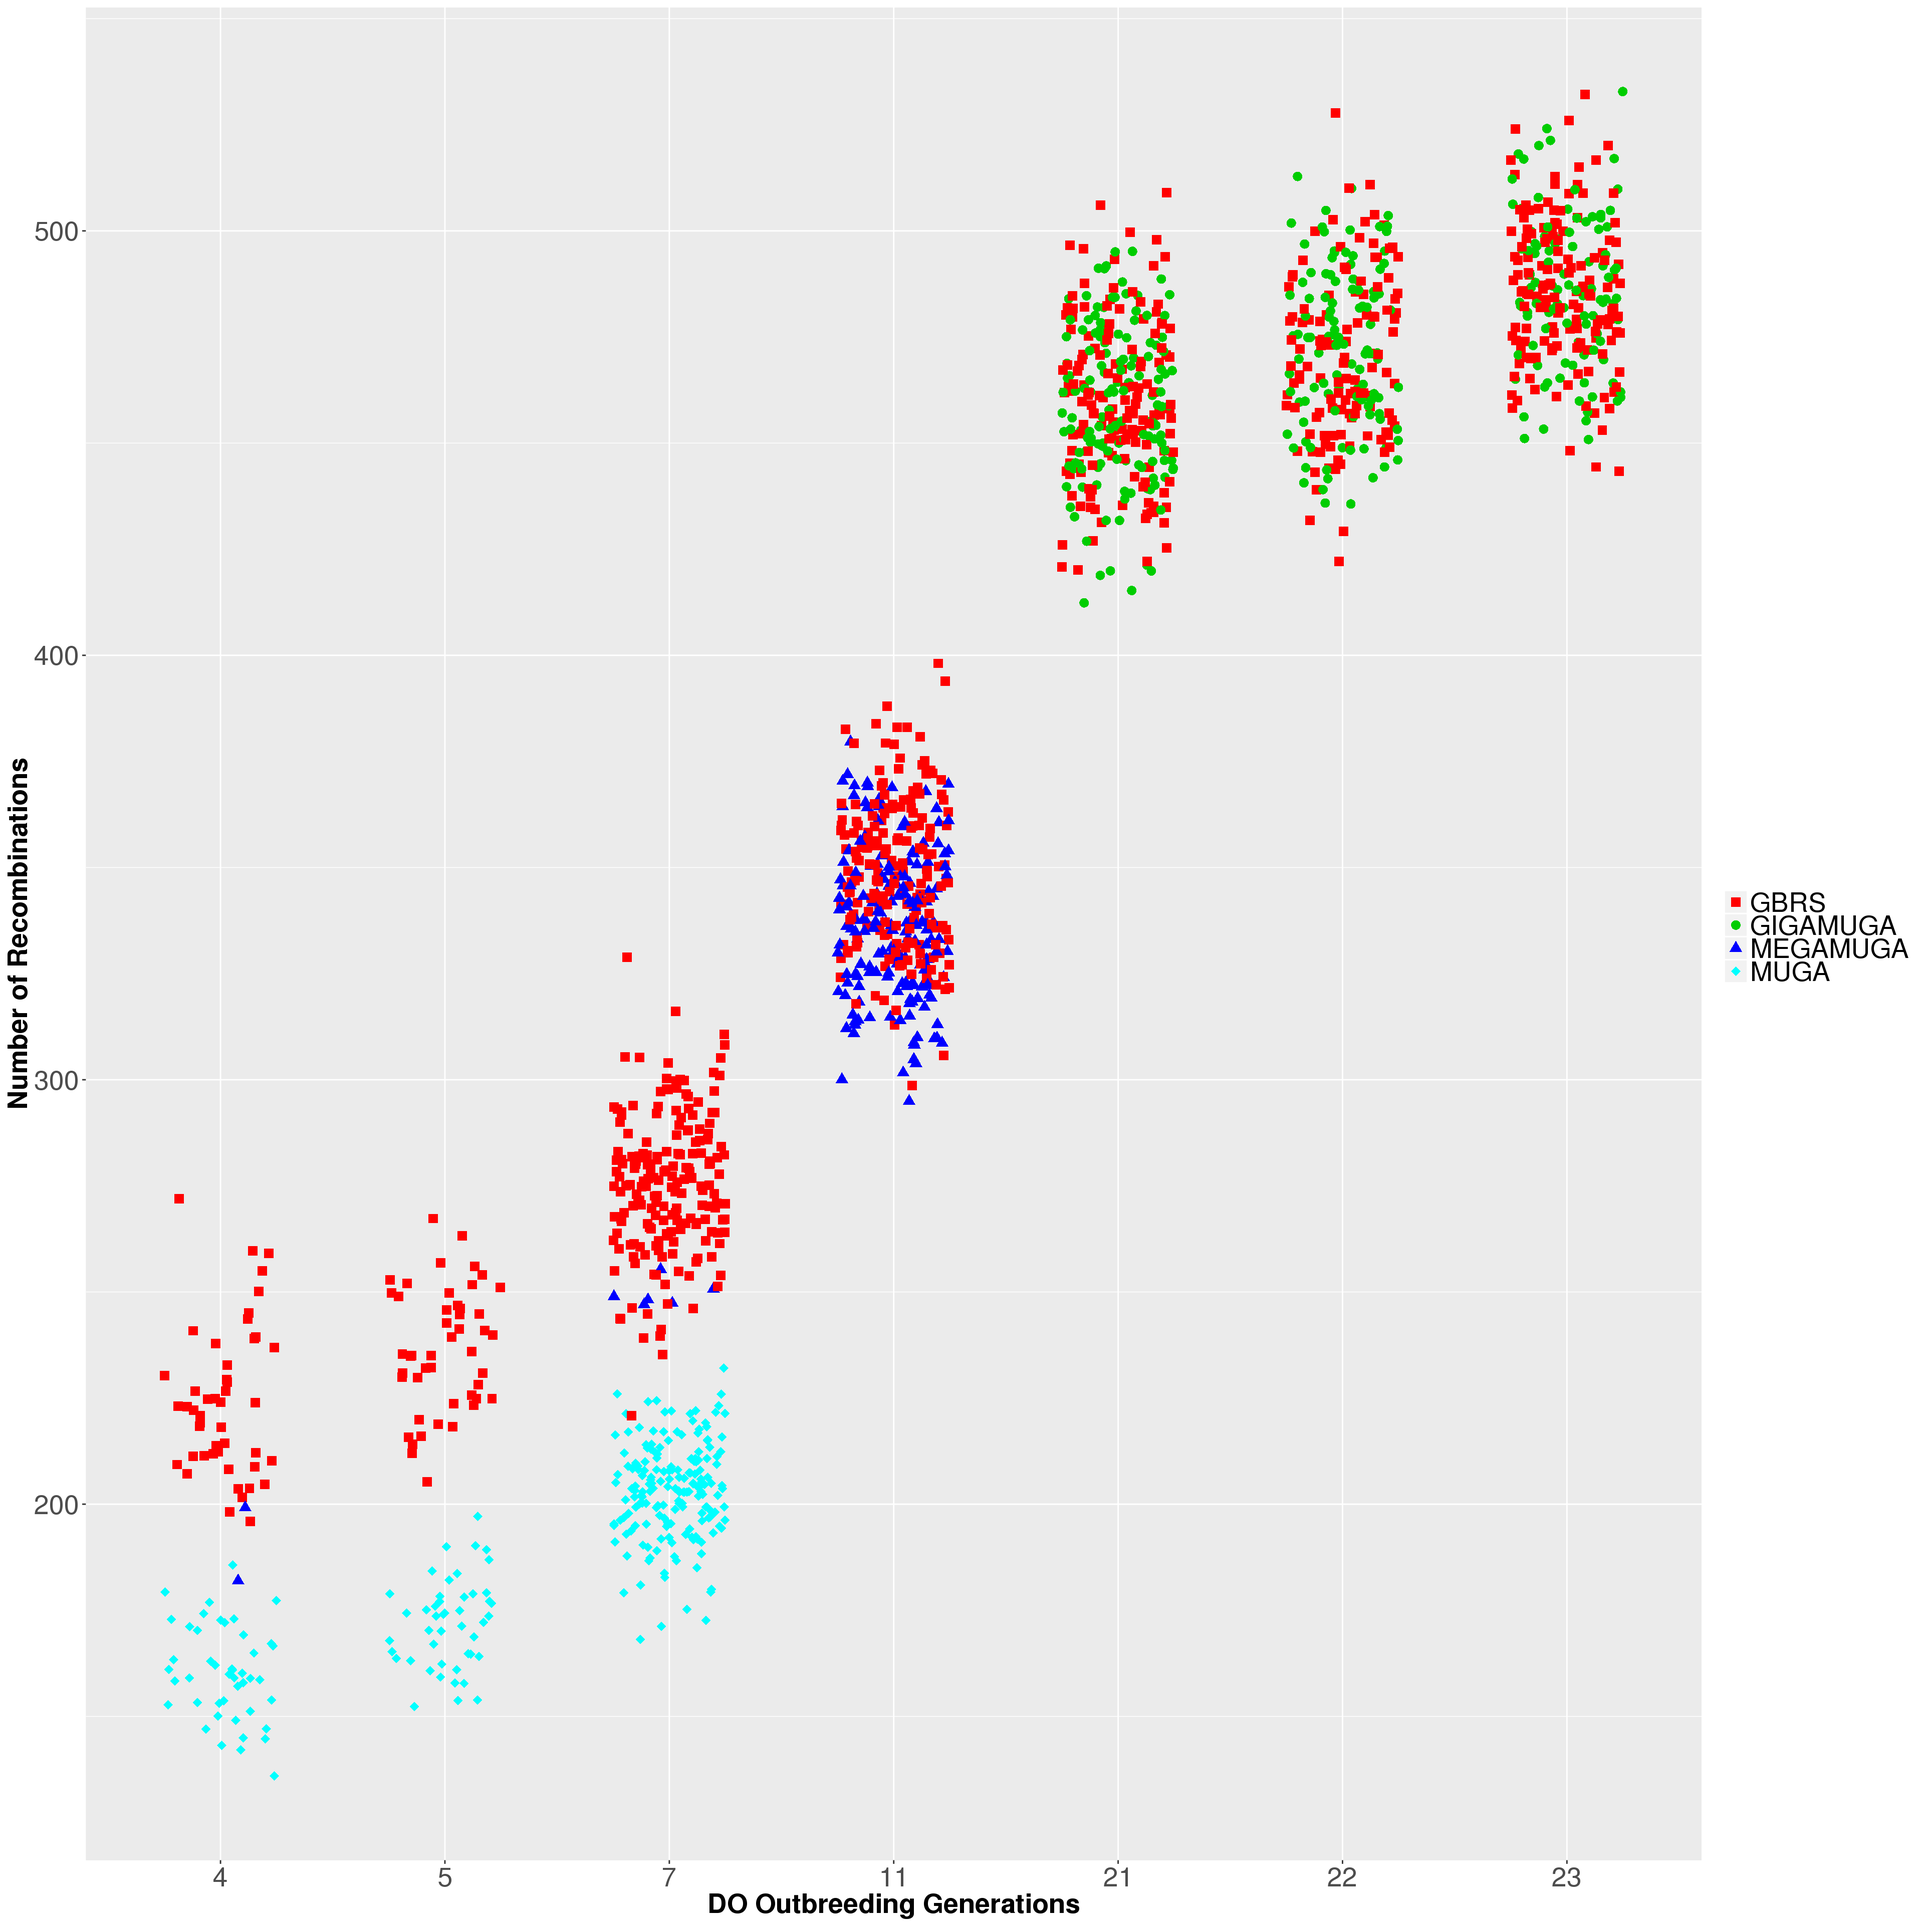
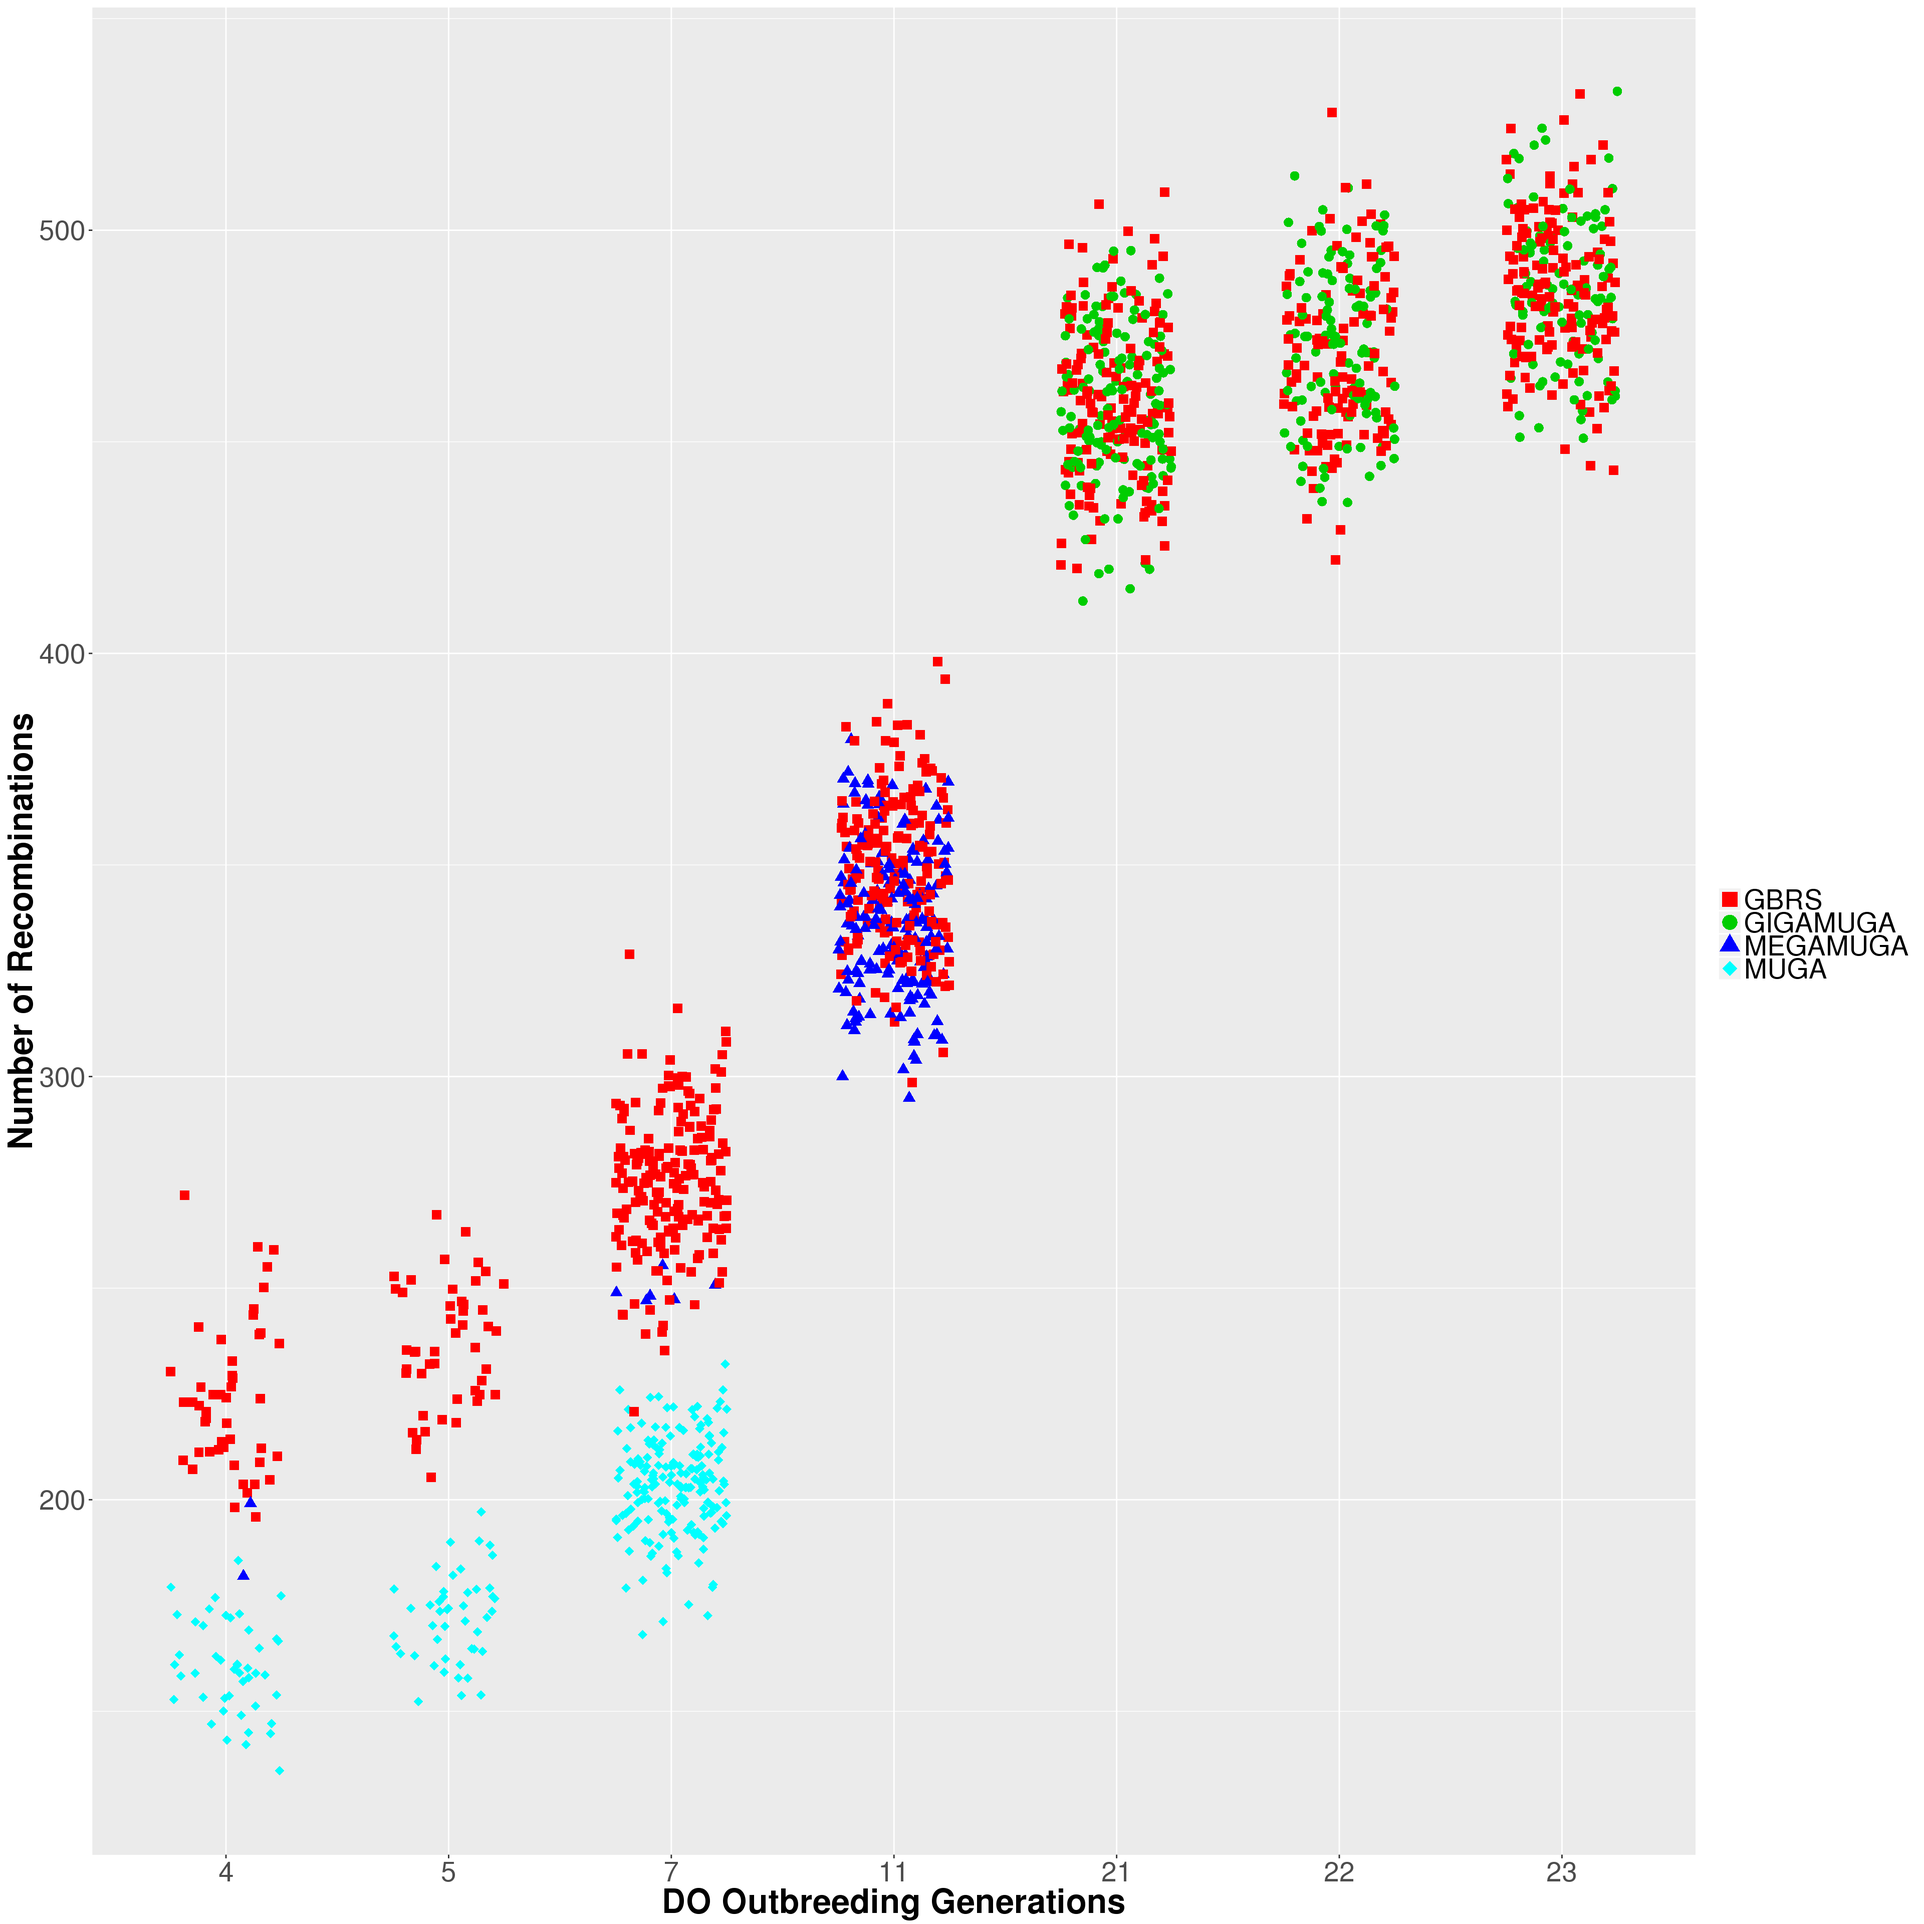
Build site.

diff --git a/docs/Figure1.html b/docs/Figure1.html
@@ -350,7 +350,7 @@ div.section {
 </details>
 </li>
 <li>
-<p><details> <summary> <strong style="color:blue;">✔</strong> <strong>Repository version:</strong> <a href="https://github.com/xhyuo/Workflowr_GBRS_array/tree/ffaf51a18f0cce80d4ff2f59dd9cfa5280f02d51" target="_blank">ffaf51a</a> </summary></p>
+<p><details> <summary> <strong style="color:blue;">✔</strong> <strong>Repository version:</strong> <a href="https://github.com/xhyuo/Workflowr_GBRS_array/tree/6254a844eb42f76423537889529b364071a2187d" target="_blank">6254a84</a> </summary></p>
 Great! You are using Git for version control. Tracking code development and connecting the code version to the results is critical for reproducibility. The version displayed above was the version of the Git repository at the time these results were generated. <br><br> Note that you need to be careful to ensure that all relevant files for the analysis have been committed to Git prior to generating the results (you can use <code>wflow_publish</code> or <code>wflow_git_commit</code>). workflowr only checks the R Markdown file, but you know if there are other scripts or data files that it depends on. Below is the status of the Git repository when the results were generated:
 <pre><code>
 Ignored files:
@@ -396,6 +396,40 @@ Message
 </tr>
 </thead>
 <tbody>
+<tr>
+<td style="text-align:left;">
+Rmd
+</td>
+<td style="text-align:left;">
+<a href="https://github.com/xhyuo/Workflowr_GBRS_array/blob/6254a844eb42f76423537889529b364071a2187d/analysis/Figure1.Rmd" target="_blank">6254a84</a>
+</td>
+<td style="text-align:left;">
+xhyuo
+</td>
+<td style="text-align:left;">
+2018-12-13
+</td>
+<td style="text-align:left;">
+Figure12
+</td>
+</tr>
+<tr>
+<td style="text-align:left;">
+html
+</td>
+<td style="text-align:left;">
+<a href="https://cdn.rawgit.com/xhyuo/Workflowr_GBRS_array/49156a4f627b3827a93b06ecd6e3857ec0cb7db4/docs/Figure1.html" target="_blank">49156a4</a>
+</td>
+<td style="text-align:left;">
+xhyuo
+</td>
+<td style="text-align:left;">
+2018-12-13
+</td>
+<td style="text-align:left;">
+Build site.
+</td>
+</tr>
 <tr>
 <td style="text-align:left;">
 html
@@ -549,7 +583,9 @@ DT::datatable(summary.tab,options = list(pageLength = 100, scrollY = &quot;800px
 sinaplot(formula = recomb ~ array.sub, data = recomb, col = c(&quot;red&quot;,&quot;cyan&quot;,&quot;red&quot;,&quot;blue&quot;,&quot;red&quot;,&quot;green3&quot;), pch = c(15,18,15,17,15,16), bty = &quot;n&quot;,
          xlab = &quot;&quot;,
          ylab = &quot;Number of Recombinations&quot;,
-         ylim=c(50, 600), cex.axis=1.5, cex.lab=1.5, cex = 1.2)</code></pre>
+         ylim=c(50, 600), cex.axis=1.5, cex.lab=1.5, cex = 1.2)
+legend(&quot;top&quot;, inset=.02, title=&quot;Array type&quot;,
+   c(&quot;GBRS.MUGA&quot;, &quot;MUGA&quot;, &quot;GBRS.MEGAMUGA&quot;,&quot;MEGAMUGA&quot;,&quot;GBRS.GIGAMUGA&quot;,&quot;GIGAMUGA&quot;), col=c(&quot;red&quot;,&quot;cyan&quot;,&quot;red&quot;,&quot;blue&quot;,&quot;red&quot;,&quot;green3&quot;), pch = c(15,18,15,17,15,16), horiz=TRUE, cex=1.7)</code></pre>
 <p><img src="figure/Figure1.Rmd/Figure%201-2.png" width="1920" style="display: block; margin: auto;" /></p>
 <details> <summary><em>Expand here to see past versions of Figure 1-2.png:</em></summary>
 <table style="border-collapse:separate; border-spacing:5px;">
@@ -585,9 +621,11 @@ xhyuo
 
 #pdf(file = &quot;Figure1_sinaplot_array.pdf&quot;, width = 12, height = 10)
 sinaplot(formula = recomb ~ array, data = recomb, col = c(&quot;red&quot;,&quot;green3&quot;,&quot;blue&quot;,&quot;cyan&quot;), pch = c(15:18), bty = &quot;n&quot;,
-         xlab = &quot;DO Outbreeding Generations&quot;,
+         xlab = &quot;&quot;,
          ylab = &quot;Number of Recombinations&quot;,
-         ylim=c(50, 600), cex.axis=1.5, cex.lab=1.5, cex = 1.2)</code></pre>
+         ylim=c(50, 600), cex.axis=1.5, cex.lab=1.5, cex = 1.2)
+legend(&quot;top&quot;, inset=.02, title=&quot;Array type&quot;,
+   c(&quot;GBRS&quot;,&quot;GIGAMUGA&quot;, &quot;MEGAMUGA&quot;, &quot;MUGA&quot;), col=c(&quot;red&quot;,&quot;green3&quot;,&quot;blue&quot;,&quot;cyan&quot;), pch = c(15:18), horiz=TRUE, cex=1.7)</code></pre>
 <p><img src="figure/Figure1.Rmd/Figure%201-3.png" width="1920" style="display: block; margin: auto;" /></p>
 <details> <summary><em>Expand here to see past versions of Figure 1-3.png:</em></summary>
 <table style="border-collapse:separate; border-spacing:5px;">
@@ -630,8 +668,9 @@ p2 &lt;- ggplot(recomb, aes(x=Gen, y=recomb)) +
   scale_fill_manual(values=c(&quot;red&quot;,&quot;green3&quot;, &quot;blue&quot;, &quot;cyan&quot;)) +
   labs(x = &quot;DO Outbreeding Generations&quot;) +
   labs(y = &quot;Number of Recombinations&quot;) +
-  theme(legend.title=element_blank(), text = element_text(size=25), 
-        axis.title=element_text(size=20,face=&quot;bold&quot;))
+  theme(legend.title=element_blank(), text = element_text(size=26), 
+        axis.title=element_text(size=25,face=&quot;bold&quot;)) +
+  guides(shape = guide_legend(override.aes = list(size = 5)))
 p2</code></pre>
 <p><img src="figure/Figure1.Rmd/Figure%201-4.png" width="1920" style="display: block; margin: auto;" /></p>
 <details> <summary><em>Expand here to see past versions of Figure 1-4.png:</em></summary>

diff --git a/docs/Figure2.html b/docs/Figure2.html
@@ -350,7 +350,7 @@ div.section {
 </details>
 </li>
 <li>
-<p><details> <summary> <strong style="color:blue;">✔</strong> <strong>Repository version:</strong> <a href="https://github.com/xhyuo/Workflowr_GBRS_array/tree/ffaf51a18f0cce80d4ff2f59dd9cfa5280f02d51" target="_blank">ffaf51a</a> </summary></p>
+<p><details> <summary> <strong style="color:blue;">✔</strong> <strong>Repository version:</strong> <a href="https://github.com/xhyuo/Workflowr_GBRS_array/tree/6254a844eb42f76423537889529b364071a2187d" target="_blank">6254a84</a> </summary></p>
 Great! You are using Git for version control. Tracking code development and connecting the code version to the results is critical for reproducibility. The version displayed above was the version of the Git repository at the time these results were generated. <br><br> Note that you need to be careful to ensure that all relevant files for the analysis have been committed to Git prior to generating the results (you can use <code>wflow_publish</code> or <code>wflow_git_commit</code>). workflowr only checks the R Markdown file, but you know if there are other scripts or data files that it depends on. Below is the status of the Git repository when the results were generated:
 <pre><code>
 Ignored files:
@@ -396,6 +396,23 @@ Message
 </tr>
 </thead>
 <tbody>
+<tr>
+<td style="text-align:left;">
+html
+</td>
+<td style="text-align:left;">
+<a href="https://cdn.rawgit.com/xhyuo/Workflowr_GBRS_array/49156a4f627b3827a93b06ecd6e3857ec0cb7db4/docs/Figure2.html" target="_blank">49156a4</a>
+</td>
+<td style="text-align:left;">
+xhyuo
+</td>
+<td style="text-align:left;">
+2018-12-13
+</td>
+<td style="text-align:left;">
+Build site.
+</td>
+</tr>
 <tr>
 <td style="text-align:left;">
 html

diff --git a/docs/license.html b/docs/license.html
@@ -225,7 +225,7 @@ div.section {
 </details>
 </li>
 <li>
-<p><details> <summary> <strong style="color:blue;">✔</strong> <strong>Repository version:</strong> <a href="https://github.com/xhyuo/Workflowr_GBRS_array/tree/ffaf51a18f0cce80d4ff2f59dd9cfa5280f02d51" target="_blank">ffaf51a</a> </summary></p>
+<p><details> <summary> <strong style="color:blue;">✔</strong> <strong>Repository version:</strong> <a href="https://github.com/xhyuo/Workflowr_GBRS_array/tree/6254a844eb42f76423537889529b364071a2187d" target="_blank">6254a84</a> </summary></p>
 Great! You are using Git for version control. Tracking code development and connecting the code version to the results is critical for reproducibility. The version displayed above was the version of the Git repository at the time these results were generated. <br><br> Note that you need to be careful to ensure that all relevant files for the analysis have been committed to Git prior to generating the results (you can use <code>wflow_publish</code> or <code>wflow_git_commit</code>). workflowr only checks the R Markdown file, but you know if there are other scripts or data files that it depends on. Below is the status of the Git repository when the results were generated:
 <pre><code>
 Ignored files:
@@ -271,6 +271,23 @@ Message
 </tr>
 </thead>
 <tbody>
+<tr>
+<td style="text-align:left;">
+html
+</td>
+<td style="text-align:left;">
+<a href="https://cdn.rawgit.com/xhyuo/Workflowr_GBRS_array/49156a4f627b3827a93b06ecd6e3857ec0cb7db4/docs/license.html" target="_blank">49156a4</a>
+</td>
+<td style="text-align:left;">
+xhyuo
+</td>
+<td style="text-align:left;">
+2018-12-13
+</td>
+<td style="text-align:left;">
+Build site.
+</td>
+</tr>
 <tr>
 <td style="text-align:left;">
 html

diff --git a/docs/about.html b/docs/about.html
@@ -225,7 +225,7 @@ div.section {
 </details>
 </li>
 <li>
-<p><details> <summary> <strong style="color:blue;">✔</strong> <strong>Repository version:</strong> <a href="https://github.com/xhyuo/Workflowr_GBRS_array/tree/ffaf51a18f0cce80d4ff2f59dd9cfa5280f02d51" target="_blank">ffaf51a</a> </summary></p>
+<p><details> <summary> <strong style="color:blue;">✔</strong> <strong>Repository version:</strong> <a href="https://github.com/xhyuo/Workflowr_GBRS_array/tree/6254a844eb42f76423537889529b364071a2187d" target="_blank">6254a84</a> </summary></p>
 Great! You are using Git for version control. Tracking code development and connecting the code version to the results is critical for reproducibility. The version displayed above was the version of the Git repository at the time these results were generated. <br><br> Note that you need to be careful to ensure that all relevant files for the analysis have been committed to Git prior to generating the results (you can use <code>wflow_publish</code> or <code>wflow_git_commit</code>). workflowr only checks the R Markdown file, but you know if there are other scripts or data files that it depends on. Below is the status of the Git repository when the results were generated:
 <pre><code>
 Ignored files:
@@ -271,6 +271,23 @@ Message
 </tr>
 </thead>
 <tbody>
+<tr>
+<td style="text-align:left;">
+html
+</td>
+<td style="text-align:left;">
+<a href="https://cdn.rawgit.com/xhyuo/Workflowr_GBRS_array/49156a4f627b3827a93b06ecd6e3857ec0cb7db4/docs/about.html" target="_blank">49156a4</a>
+</td>
+<td style="text-align:left;">
+xhyuo
+</td>
+<td style="text-align:left;">
+2018-12-13
+</td>
+<td style="text-align:left;">
+Build site.
+</td>
+</tr>
 <tr>
 <td style="text-align:left;">
 html

diff --git a/docs/index.html b/docs/index.html
@@ -225,7 +225,7 @@ div.section {
 </details>
 </li>
 <li>
-<p><details> <summary> <strong style="color:blue;">✔</strong> <strong>Repository version:</strong> <a href="https://github.com/xhyuo/Workflowr_GBRS_array/tree/ffaf51a18f0cce80d4ff2f59dd9cfa5280f02d51" target="_blank">ffaf51a</a> </summary></p>
+<p><details> <summary> <strong style="color:blue;">✔</strong> <strong>Repository version:</strong> <a href="https://github.com/xhyuo/Workflowr_GBRS_array/tree/6254a844eb42f76423537889529b364071a2187d" target="_blank">6254a84</a> </summary></p>
 Great! You are using Git for version control. Tracking code development and connecting the code version to the results is critical for reproducibility. The version displayed above was the version of the Git repository at the time these results were generated. <br><br> Note that you need to be careful to ensure that all relevant files for the analysis have been committed to Git prior to generating the results (you can use <code>wflow_publish</code> or <code>wflow_git_commit</code>). workflowr only checks the R Markdown file, but you know if there are other scripts or data files that it depends on. Below is the status of the Git repository when the results were generated:
 <pre><code>
 Ignored files:
@@ -271,6 +271,23 @@ Message
 </tr>
 </thead>
 <tbody>
+<tr>
+<td style="text-align:left;">
+html
+</td>
+<td style="text-align:left;">
+<a href="https://cdn.rawgit.com/xhyuo/Workflowr_GBRS_array/49156a4f627b3827a93b06ecd6e3857ec0cb7db4/docs/index.html" target="_blank">49156a4</a>
+</td>
+<td style="text-align:left;">
+xhyuo
+</td>
+<td style="text-align:left;">
+2018-12-13
+</td>
+<td style="text-align:left;">
+Build site.
+</td>
+</tr>
 <tr>
 <td style="text-align:left;">
 html
